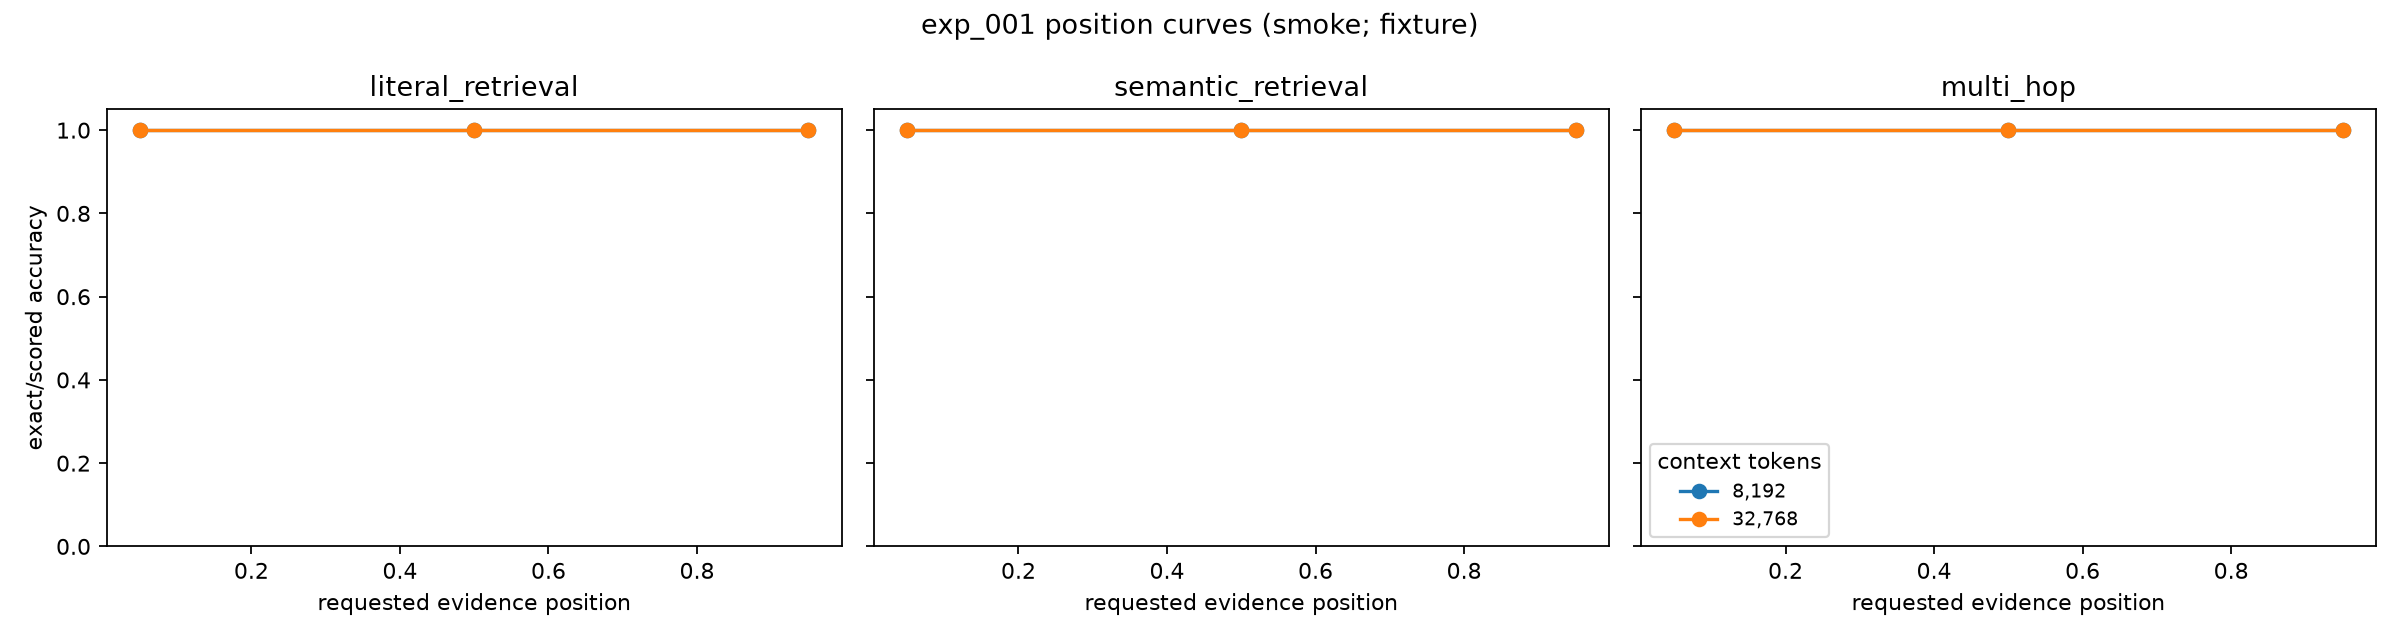
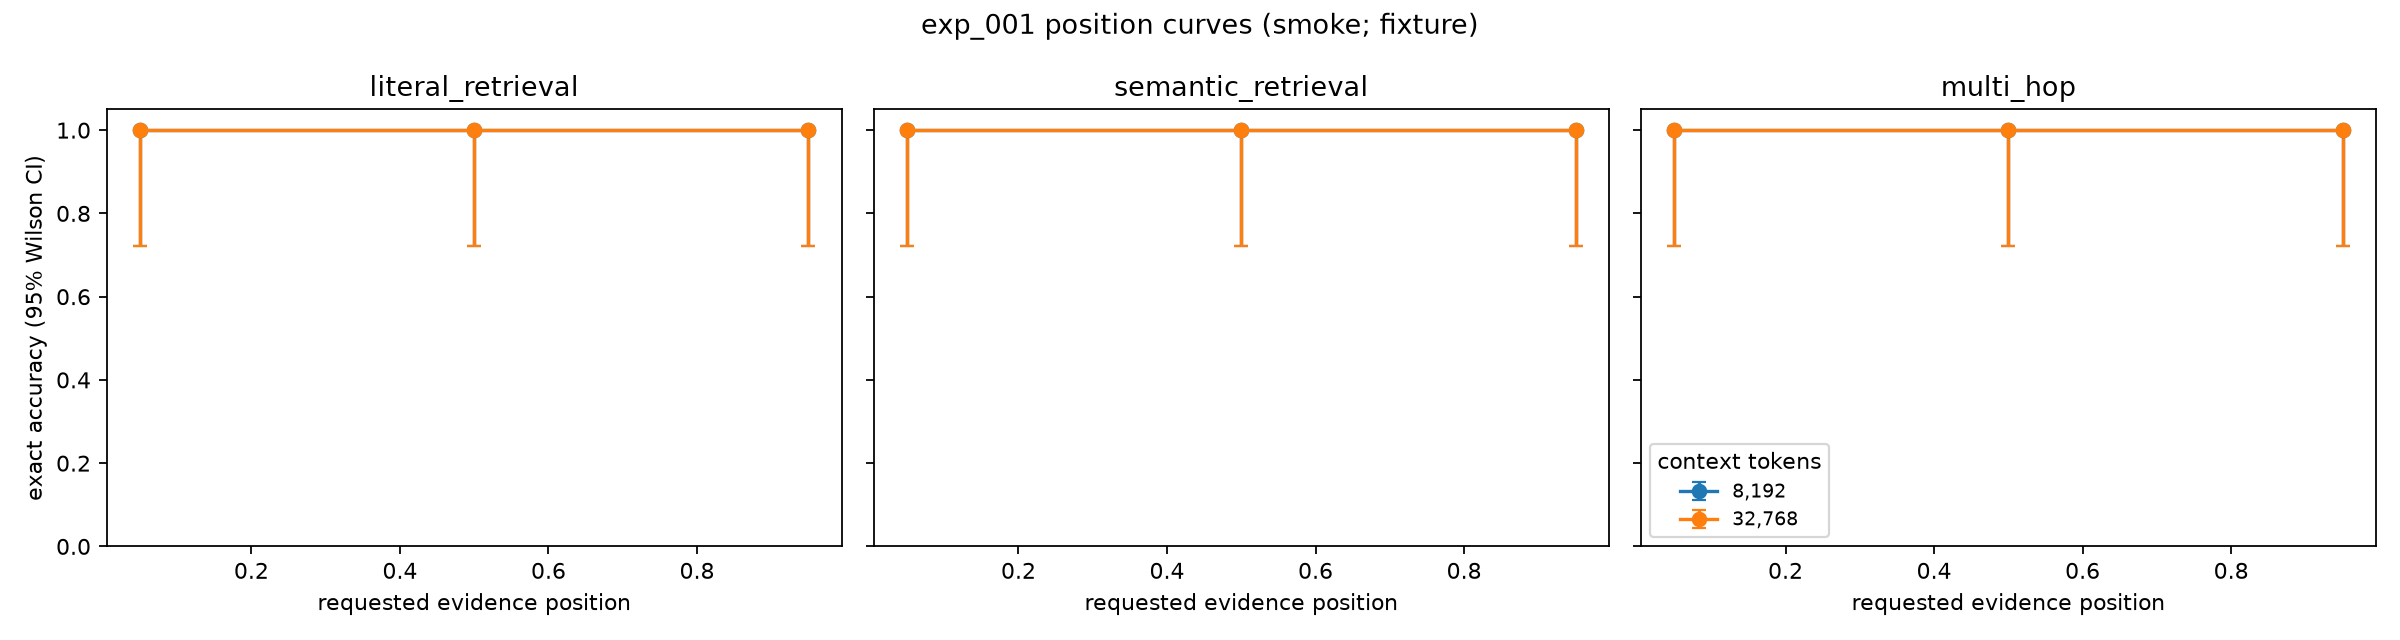
feat: report task-level uncertainty in experiment notebooks

Changed region(s): [[0.0, 0.3125, 0.0312, 0.5312], [0.0, 0.5625, 0.0312, 0.6875]]

diff --git a/src/llm_lab/analysis/uncertainty.py b/src/llm_lab/analysis/uncertainty.py
@@ -1,0 +1,121 @@
+"""Uncertainty estimates whose resampling unit is an independent task."""
+
+from __future__ import annotations
+
+from collections import defaultdict
+from math import isfinite, sqrt
+from typing import Any, Iterable, Mapping
+
+
+class UncertaintyAnalysisError(ValueError):
+    """Raised when task-level uncertainty cannot be computed safely."""
+
+
+def wilson_interval(
+    successes: int,
+    trials: int,
+    *,
+    z: float = 1.96,
+) -> tuple[float, float]:
+    """Return a two-sided Wilson interval for a binary rate.
+
+    The interval is deliberately defined for integer task outcomes. Runtime
+    and invalid-output failures should therefore be represented as attempted
+    tasks with zero success, rather than removed from ``trials``.
+    """
+
+    if isinstance(successes, bool) or isinstance(trials, bool):
+        raise UncertaintyAnalysisError("successes and trials must be integers")
+    if not isinstance(successes, int) or not isinstance(trials, int):
+        raise UncertaintyAnalysisError("successes and trials must be integers")
+    if trials < 1 or successes < 0 or successes > trials:
+        raise UncertaintyAnalysisError(
+            f"invalid binary counts: successes={successes}, trials={trials}"
+        )
+    if not isinstance(z, (int, float)) or isinstance(z, bool) or not isfinite(float(z)) or z <= 0:
+        raise UncertaintyAnalysisError("z must be a positive finite number")
+    z_value = float(z)
+    n = float(trials)
+    p = successes / n
+    z_squared = z_value * z_value
+    denominator = 1.0 + z_squared / n
+    center = (p + z_squared / (2.0 * n)) / denominator
+    half_width = z_value * sqrt((p * (1.0 - p) + z_squared / (4.0 * n)) / n) / denominator
+    return max(0.0, center - half_width), min(1.0, center + half_width)
+
+
+def task_level_wilson(
+    rows: Iterable[Mapping[str, Any]],
+    *,
+    group_keys: Iterable[str],
+    task_key: str = "task_id",
+    metric_fields: Mapping[str, str],
+    attempted_key: str = "attempted_n",
+) -> list[dict[str, Any]]:
+    """Calculate Wilson intervals with one independent task per observation.
+
+    ``rows`` must contain one capability row per task within each group. A
+    repeated deterministic prompt is not silently treated as a larger sample:
+    duplicate task IDs raise an error. Missing/false metric values count as a
+    failed attempted task, preserving runtime and invalid-output failures in
+    the denominator.
+    """
+
+    selected_group_keys = tuple(str(key) for key in group_keys)
+    if not selected_group_keys:
+        raise UncertaintyAnalysisError("at least one group key is required")
+    if not metric_fields:
+        raise UncertaintyAnalysisError("at least one metric field is required")
+    groups: dict[tuple[Any, ...], dict[str, Mapping[str, Any]]] = defaultdict(dict)
+    for row in rows:
+        try:
+            group = tuple(row[key] for key in selected_group_keys)
+            task_id = row[task_key]
+        except KeyError as error:
+            raise UncertaintyAnalysisError(
+                f"task-level uncertainty is missing required field: {error.args[0]}"
+            ) from error
+        if task_id is None or not str(task_id).strip():
+            raise UncertaintyAnalysisError("task-level uncertainty requires task_id")
+        task_id = str(task_id)
+        if task_id in groups[group]:
+            raise UncertaintyAnalysisError(
+                "duplicate task within uncertainty group; repeated prompts are "
+                f"not independent: group={group}, task_id={task_id}"
+            )
+        attempted = row.get(attempted_key, 1)
+        if isinstance(attempted, bool) or not isinstance(attempted, int) or attempted != 1:
+            raise UncertaintyAnalysisError(
+                "task-level uncertainty requires exactly one capability observation "
+                f"per task; task_id={task_id}, attempted_n={attempted!r}"
+            )
+        groups[group][task_id] = row
+
+    output: list[dict[str, Any]] = []
+    for group, task_rows in sorted(groups.items(), key=lambda item: tuple(str(value) for value in item[0])):
+        result = dict(zip(selected_group_keys, group))
+        result["task_n"] = len(task_rows)
+        result["attempted_n"] = len(task_rows)
+        for metric_name, field_name in metric_fields.items():
+            successes = 0
+            for row in task_rows.values():
+                value = row.get(field_name)
+                if isinstance(value, bool):
+                    successes += int(value)
+                elif isinstance(value, int) and value in (0, 1):
+                    successes += value
+                elif value is not None:
+                    raise UncertaintyAnalysisError(
+                        f"metric {field_name!r} must be boolean or 0/1, found {value!r}"
+                    )
+            low, high = wilson_interval(successes, len(task_rows))
+            result.update(
+                {
+                    f"{metric_name}_success_n": successes,
+                    f"{metric_name}_rate": successes / len(task_rows),
+                    f"{metric_name}_ci_low": low,
+                    f"{metric_name}_ci_high": high,
+                }
+            )
+        output.append(result)
+    return output

diff --git a/tests/analysis/test_uncertainty.py b/tests/analysis/test_uncertainty.py
@@ -1,0 +1,81 @@
+import unittest
+
+from llm_lab.analysis import (
+    UncertaintyAnalysisError,
+    task_level_wilson,
+    wilson_interval,
+)
+
+
+class UncertaintyTests(unittest.TestCase):
+    def test_wilson_interval_is_bounded_and_contains_rate(self) -> None:
+        low, high = wilson_interval(8, 10)
+        self.assertGreaterEqual(low, 0.0)
+        self.assertLessEqual(high, 1.0)
+        self.assertLessEqual(low, 0.8)
+        self.assertGreaterEqual(high, 0.8)
+
+    def test_task_level_wilson_uses_independent_tasks(self) -> None:
+        rows = [
+            {
+                "variant": "q8",
+                "context": 8192,
+                "task_id": "task-1",
+                "attempted_n": 1,
+                "exact": 1,
+                "answer": 1,
+                "format": 1,
+            },
+            {
+                "variant": "q8",
+                "context": 8192,
+                "task_id": "task-2",
+                "attempted_n": 1,
+                "exact": 0,
+                "answer": 1,
+                "format": 0,
+            },
+        ]
+        [summary] = task_level_wilson(
+            rows,
+            group_keys=("variant", "context"),
+            metric_fields={
+                "exact": "exact",
+                "answer_bearing": "answer",
+                "format_valid": "format",
+            },
+        )
+        self.assertEqual(2, summary["task_n"])
+        self.assertEqual(1, summary["exact_success_n"])
+        self.assertEqual(0.5, summary["exact_rate"])
+        self.assertEqual(2, summary["answer_bearing_success_n"])
+        self.assertEqual(0.5, summary["format_valid_rate"])
+
+    def test_duplicate_task_is_not_counted_as_independent_sample(self) -> None:
+        rows = [
+            {"group": "g", "task_id": "task-1", "attempted_n": 1, "correct": 1},
+            {"group": "g", "task_id": "task-1", "attempted_n": 1, "correct": 1},
+        ]
+        with self.assertRaisesRegex(UncertaintyAnalysisError, "not independent"):
+            task_level_wilson(
+                rows,
+                group_keys=("group",),
+                metric_fields={"correct": "correct"},
+            )
+
+    def test_runtime_failure_can_remain_a_failed_attempt(self) -> None:
+        [summary] = task_level_wilson(
+            [
+                {"group": "g", "task_id": "ok", "attempted_n": 1, "correct": 1},
+                {"group": "g", "task_id": "runtime-error", "attempted_n": 1, "correct": None},
+            ],
+            group_keys=("group",),
+            metric_fields={"correct": "correct"},
+        )
+        self.assertEqual(2, summary["attempted_n"])
+        self.assertEqual(1, summary["correct_success_n"])
+        self.assertEqual(0.5, summary["correct_rate"])
+
+
+if __name__ == "__main__":
+    unittest.main()

diff --git a/src/llm_lab/analysis/__init__.py b/src/llm_lab/analysis/__init__.py
@@ -42,6 +42,7 @@ from .agent_reliability import (
     require_measured_trials,
     validate_complete_matrix,
 )
+from .uncertainty import UncertaintyAnalysisError, task_level_wilson, wilson_interval
 
 __all__ = [
     "ContextAnalysisError",
@@ -78,4 +79,7 @@ __all__ = [
     "plot_reliability_by_position",
     "require_measured_trials",
     "validate_complete_matrix",
+    "UncertaintyAnalysisError",
+    "task_level_wilson",
+    "wilson_interval",
 ]

diff --git a/experiments/exp_002-quantization_llama_cpp_gguf/results/README.md b/experiments/exp_002-quantization_llama_cpp_gguf/results/README.md
@@ -51,11 +51,12 @@ separate raw output and summary, with the manifest-declared 3–5 repeats; those
 repeated prompts never enter the capability denominator. The historical
 checked-in manifest predates these explicit controls and intentionally fails
 closed for timing; first resolve a fresh `manifest.json` with
-`capability_repeats: 1` and `timing_repeats: 5`:
+`capability_repeats: 1` and `timing_repeats: 5` (write the resolved manifest to
+`results/manifest.json` before running this command):
 
 ```bash
 PYTHONPATH=src python3 experiments/exp_002-quantization_llama_cpp_gguf/runner.py \
-  --manifest experiments/exp_002-quantization_llama_cpp_gguf/results/manifest.v002-timing.json \
+  --manifest experiments/exp_002-quantization_llama_cpp_gguf/results/manifest.json \
   --output experiments/exp_002-quantization_llama_cpp_gguf/results/raw/trials-v002.jsonl \
   --processed experiments/exp_002-quantization_llama_cpp_gguf/results/processed/summary.csv \
   --timing-output experiments/exp_002-quantization_llama_cpp_gguf/results/raw/timing-v002.jsonl \
